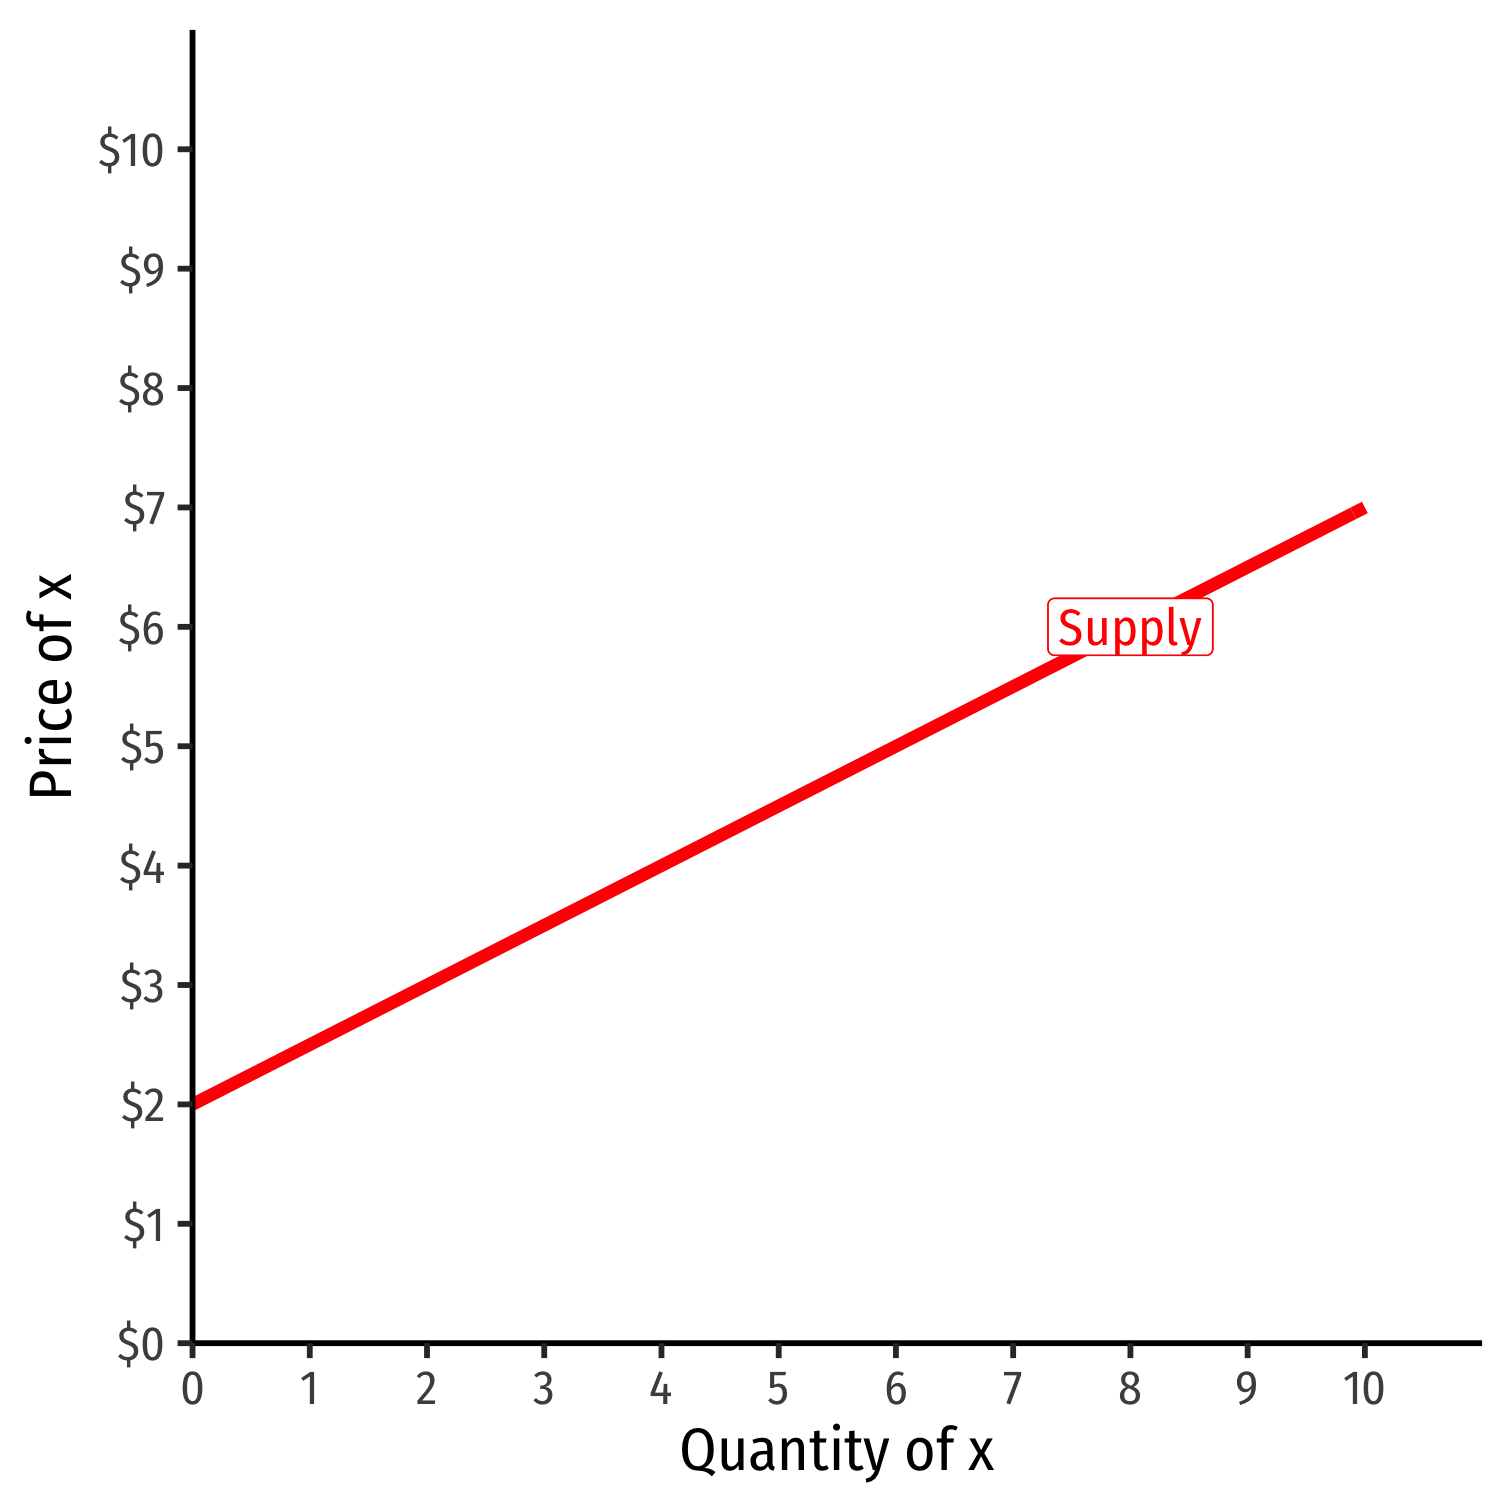
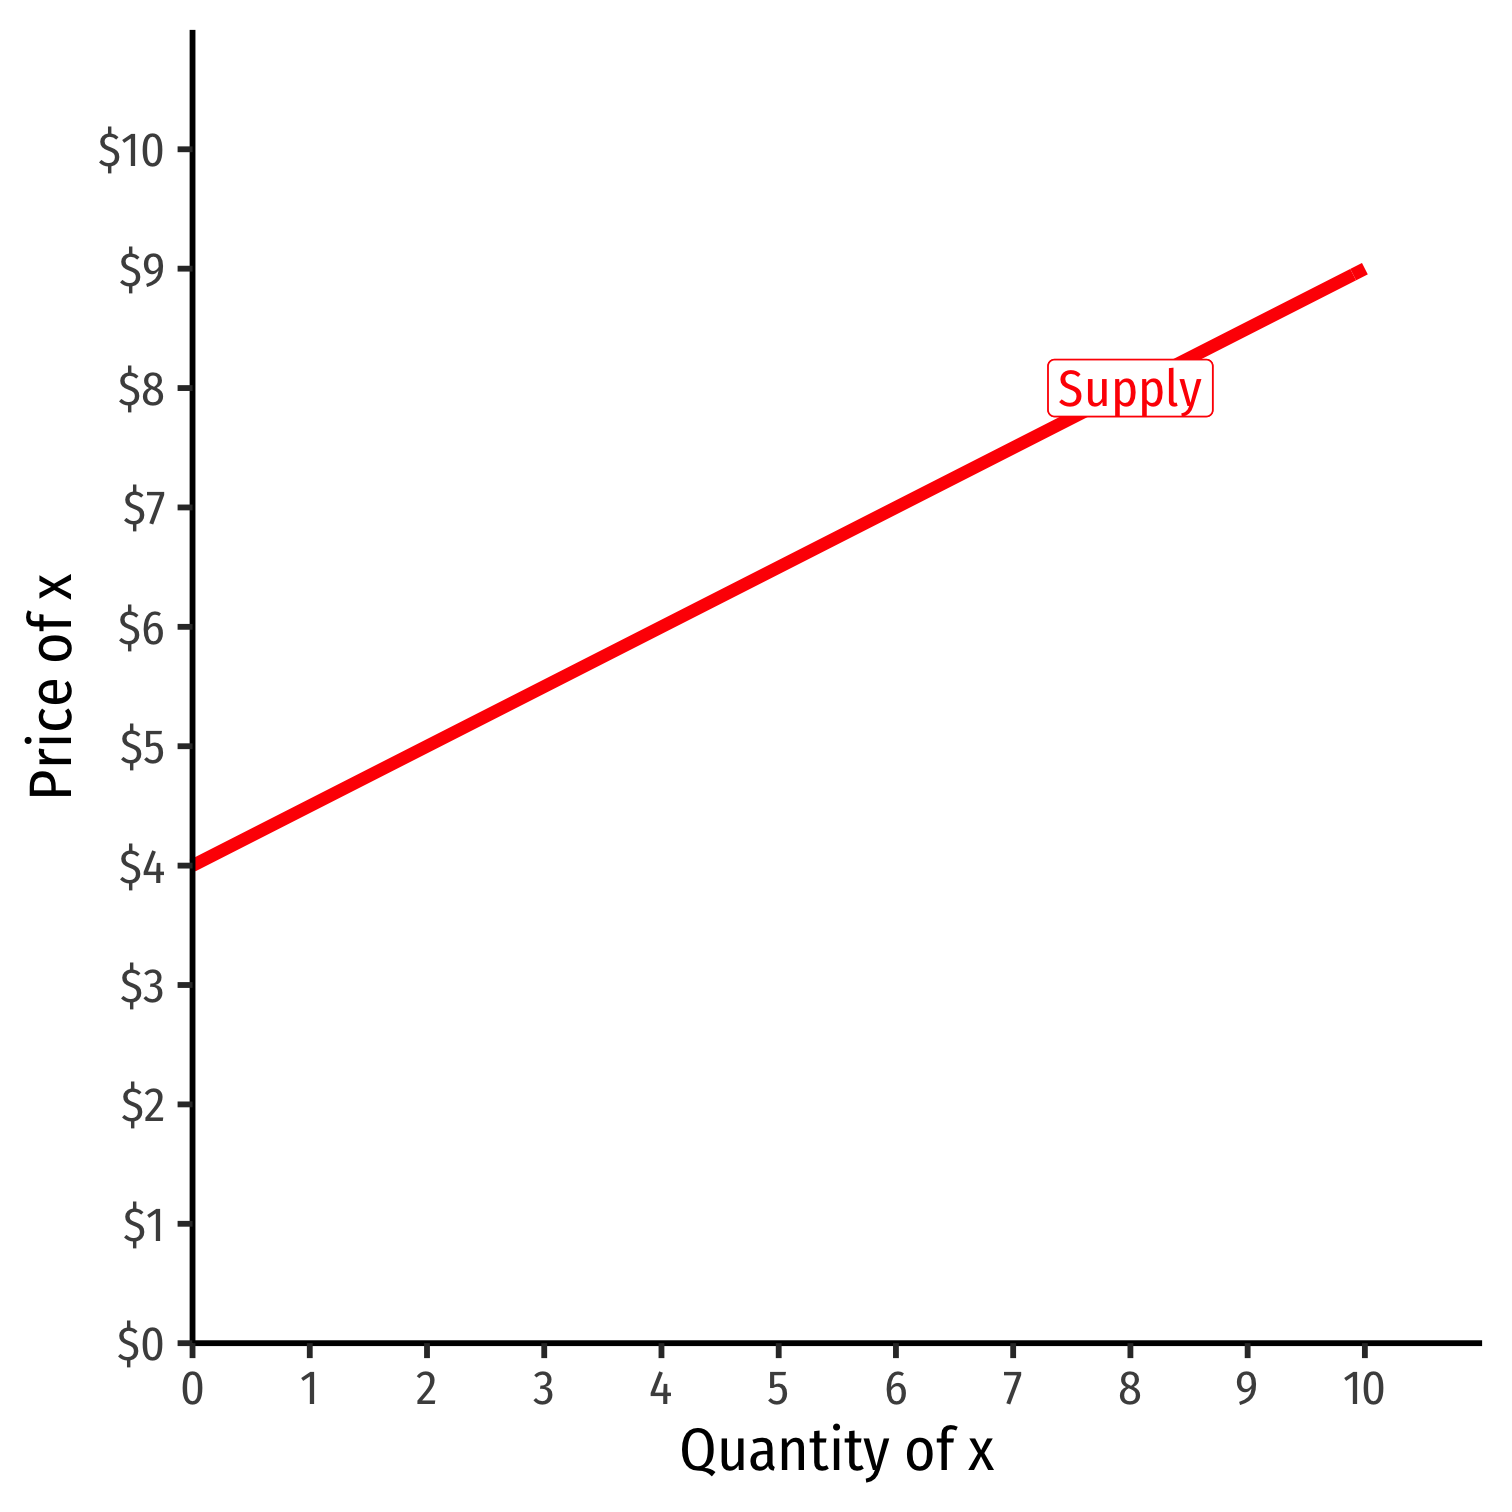
fix numbers

diff --git a/static/slides/3.1-slides.html b/static/slides/3.1-slides.html
@@ -261,7 +261,7 @@ class: inverse, center, middle
 
 .bg-washed-green.b--dark-green.ba.bw2.br3.shadow-5.ph4.mt5[
 .green[**Example**]: 
-`$$q=2p-4$$`
+`$$q=2p-8$$`
 ]
 - Not graphable (wrong axes)!
 
@@ -283,7 +283,7 @@ class: inverse, center, middle
 
 .bg-washed-green.b--dark-green.ba.bw2.br3.shadow-5.ph4.mt5[
 .green[**Example**]: 
-`$$p=2+0.5q$$`
+`$$p=4+0.5q$$`
 ]
 - Graphable (price on vertical axis)!
 
@@ -304,12 +304,12 @@ class: inverse, center, middle
 
 .bg-washed-green.b--dark-green.ba.bw2.br3.shadow-5.ph4.mt5[
 .green[**Example**]: 
-`$$p=2+0.5q$$`
+`$$p=4+0.5q$$`
 ]
 
 - Slope: 0.5
 
-- Vertical intercept called the .hi["Choke price"]: price where `\\(q_S=0\\)` ($2), just low enough to discourage *any* sales
+- Vertical intercept called the .hi["Choke price"]: price where `\\(q_S=0\\)` ($4), just low enough to discourage *any* sales
 
 ]
 

diff --git a/static/slides/3.2-slides.html b/static/slides/3.2-slides.html
@@ -722,7 +722,7 @@ PS&amp;=\$5.00\\
 
 `$$\begin{align*}
 	q_D&amp;=10-p\\
-	q_S&amp;=2p-4\\	
+	q_S&amp;=2p-8\\	
 	\end{align*}$$`
 ]
 
